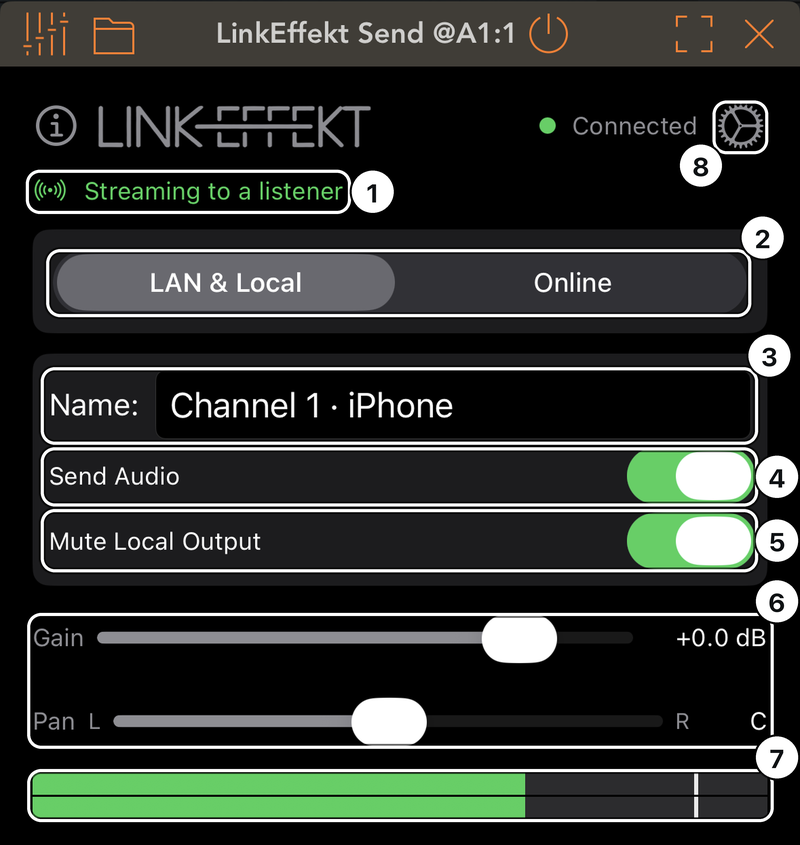
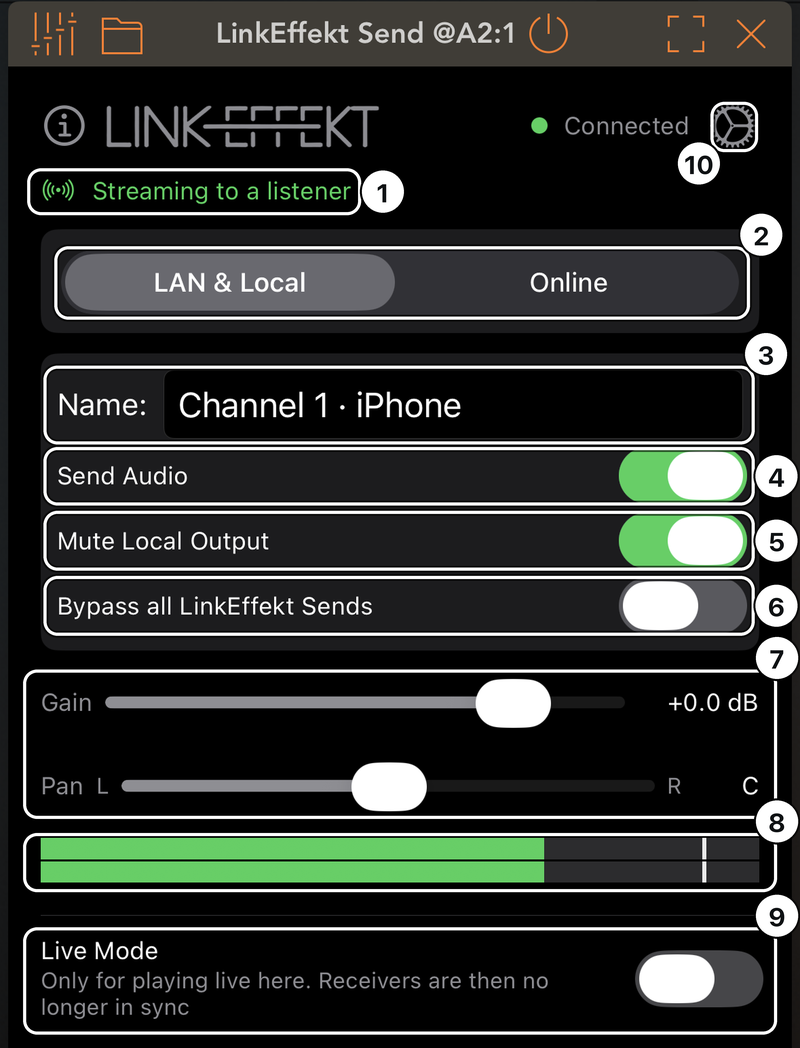
Handbuch: Send-Uebersicht mit Bypass all und Live Mode (Build 229), Couch-Karte mit echtem Bild, Abstand Einleitung zu Schritten ohne Strecken-Zeile

diff --git a/manual.html b/manual.html
@@ -341,10 +341,17 @@
       <li>Every Send on the iPad stops streaming, in every host, and every track plays on the iPad. An orange note at the top of each Send says so.</li>
       <li>Back at Live, tap the orange note to stream again.</li>
     </ol>
-    <div class="plugin-banner" role="img" aria-label="The orange note in every Send: All LinkEffekt Sends are bypassed. Nothing is streamed. Tap to turn off.">
-      <svg viewBox="0 0 20 20" aria-hidden="true"><circle cx="10" cy="10" r="9.5" fill="#fff"/><rect x="6.6" y="5.8" width="2.3" height="8.4" rx=".7" fill="#ff9f0a"/><rect x="11.1" y="5.8" width="2.3" height="8.4" rx=".7" fill="#ff9f0a"/></svg>
-      <span>All LinkEffekt Sends are bypassed. Nothing is streamed. Tap to turn off.</span>
-    </div>
+    <figure class="shot">
+      <div class="shot-imgs">
+        <img src="img/manual/couch.png" width="340" height="336" loading="lazy" alt="LinkEffekt Send with Bypass all LinkEffekt Sends on and the orange note at the top: All LinkEffekt Sends are bypassed. Nothing is streamed. Tap to turn off.">
+      </div>
+      <figcaption>
+        <ul class="callouts">
+          <li><span class="cn">1</span>The switch, in any Send.</li>
+          <li><span class="cn">2</span>The note in every Send. Tap it to stream again.</li>
+        </ul>
+      </figcaption>
+    </figure>
     <div class="gtk">
       <p class="gtk-title">Good to know</p>
       <p>The switch stays on until you turn it off, also after a restart.</p>
@@ -430,7 +437,7 @@
   <h2 id="send">4 · LinkEffekt Send: reference</h2>
   <figure class="shot">
     <div class="shot-imgs">
-      <img src="img/manual/send-overview.png" width="400" height="423" loading="lazy" alt="LinkEffekt Send on an iPhone with numbered markers on every control">
+      <img src="img/manual/send-overview.png" width="400" height="524" loading="lazy" alt="LinkEffekt Send on an iPhone with numbered markers on every control">
     </div>
     <figcaption>
       <ul class="callouts compact">
@@ -439,11 +446,12 @@
         <li><span class="cn">3</span>Name</li>
         <li><span class="cn">4</span>Send Audio</li>
         <li><span class="cn">5</span>Mute Local Output</li>
-        <li><span class="cn">6</span>Gain and Pan</li>
-        <li><span class="cn">7</span>Level meter</li>
-        <li><span class="cn">8</span>Gear: Ableton Link settings</li>
+        <li><span class="cn">6</span>Bypass all LinkEffekt Sends</li>
+        <li><span class="cn">7</span>Gain and Pan</li>
+        <li><span class="cn">8</span>Level meter</li>
+        <li><span class="cn">9</span>Live Mode</li>
+        <li><span class="cn">10</span>Gear: Ableton Link settings</li>
       </ul>
-      <p class="shot-note">Not in the picture: <strong>Bypass all LinkEffekt Sends</strong>, right under Mute Local Output, and <strong>Live Mode</strong> at the bottom.</p>
     </figcaption>
   </figure>
   <ul>

diff --git a/style.css b/style.css
@@ -406,6 +406,8 @@ footer a { color: var(--muted); }
 }
 
 .prose ol.steps { list-style: none; margin: 0; padding: 0; counter-reset: step; }
+/* Karte ohne Strecken-Zeile (Couch): Schritte so weit von der Einleitung wie sonst die Strecke */
+.prose .wf .wf-lead + ol.steps { margin-top: 1.2rem; }
 .prose ol.steps > li {
   counter-increment: step; position: relative;
   padding: 0 0 0 2.2rem; margin: 0 0 .65rem;
@@ -454,15 +456,6 @@ footer a { color: var(--muted); }
   transform: translateY(-1px);
 }
 .prose p.shot-note { margin: .7rem 0 0; font-size: .9rem; color: var(--muted); }
-
-/* the orange note from the plugin, quoted as it appears there */
-.plugin-banner {
-  display: flex; gap: .6rem; align-items: center;
-  background: #ff9f0a; color: #fff; border-radius: 9px;
-  padding: .6rem .8rem; margin: 1.1rem 0 0; max-width: 24rem;
-  font-weight: 650; font-size: .93rem; line-height: 1.35;
-}
-.plugin-banner svg { flex: none; width: 20px; height: 20px; }
 
 /* status vocabulary as a table */
 .prose table.status-table td:first-child { white-space: nowrap; }
